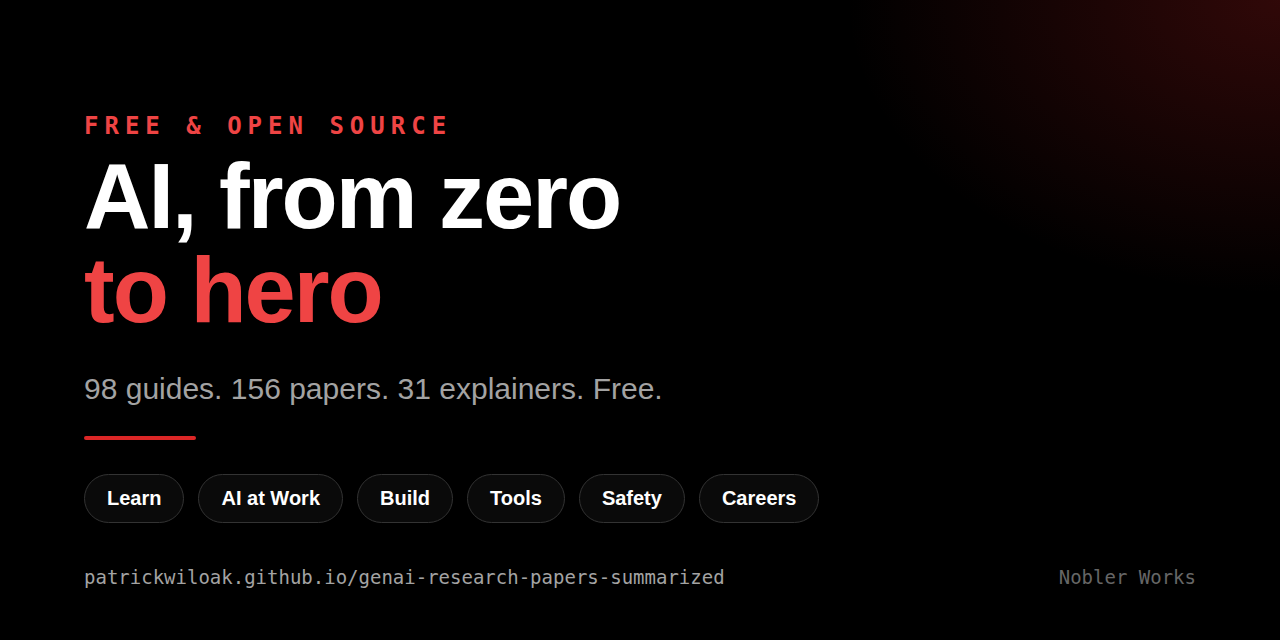
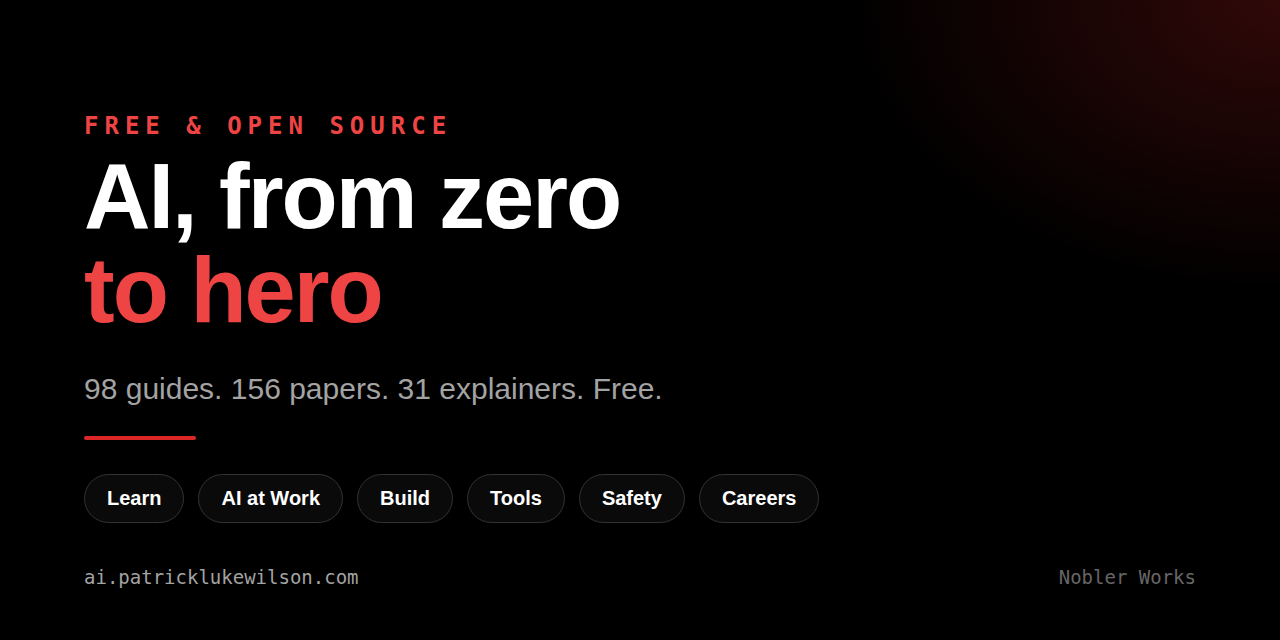
Record ai.patrickwiloak.com redirect infra; re-render social preview for the new domain

Changed region(s): [[0.0625, 0.875, 0.5625, 0.9375]]

diff --git a/infra/ai-patrickwiloak-redirect.js b/infra/ai-patrickwiloak-redirect.js
@@ -1,0 +1,14 @@
+// ai.patrickwiloak.com -> ai.patricklukewilson.com (AI Zero to Hero), path and query kept.
+// Owned by the ai-zero-to-hero repo (see its CLAUDE.md). Created 2026-10-21.
+function handler(event) {
+    var r = event.request;
+    var q = Object.keys(r.querystring).map(function (k) {
+        var v = r.querystring[k];
+        return v.value === '' ? k : k + '=' + v.value;
+    }).join('&');
+    return {
+        statusCode: 301,
+        statusDescription: 'Moved Permanently',
+        headers: { location: { value: 'https://ai.patricklukewilson.com' + r.uri + (q ? '?' + q : '') } }
+    };
+}

diff --git a/CLAUDE.md b/CLAUDE.md
@@ -8,7 +8,7 @@ essays with comprehensive summaries (count: see `papers.json`), plus unnumbered 
 on model families, benchmarks, compute, policy, ecosystem and open questions. Broadened from
 papers-only on 2026-09-30. On 2026-10-21 the repo was renamed `ai-zero-to-hero` and the site moved to
 the custom domain `ai.patricklukewilson.com` (Route 53 CNAME in the NW account -> `patrickwiloak.github.io`);
-`ai.patrickwiloak.com` 301s to it. The old github.io/genai-research-papers-summarized URL is dead (never indexed). Docs-only educational resource (no application
+`ai.patrickwiloak.com` 301s to it via CloudFront `E2IBVK41UK88T1` + function `ai-patrickwiloak-redirect` (source `infra/ai-patrickwiloak-redirect.js`, ACM cert in us-east-1, Route 53 alias in the patrickwiloak.com zone; hand-built, no IaC). The old github.io/genai-research-papers-summarized URL is dead (never indexed). Docs-only educational resource (no application
 code) - markdown plus a stdlib Python regeneration pipeline that builds the index,
 manifests, and an MkDocs Material site.
 
